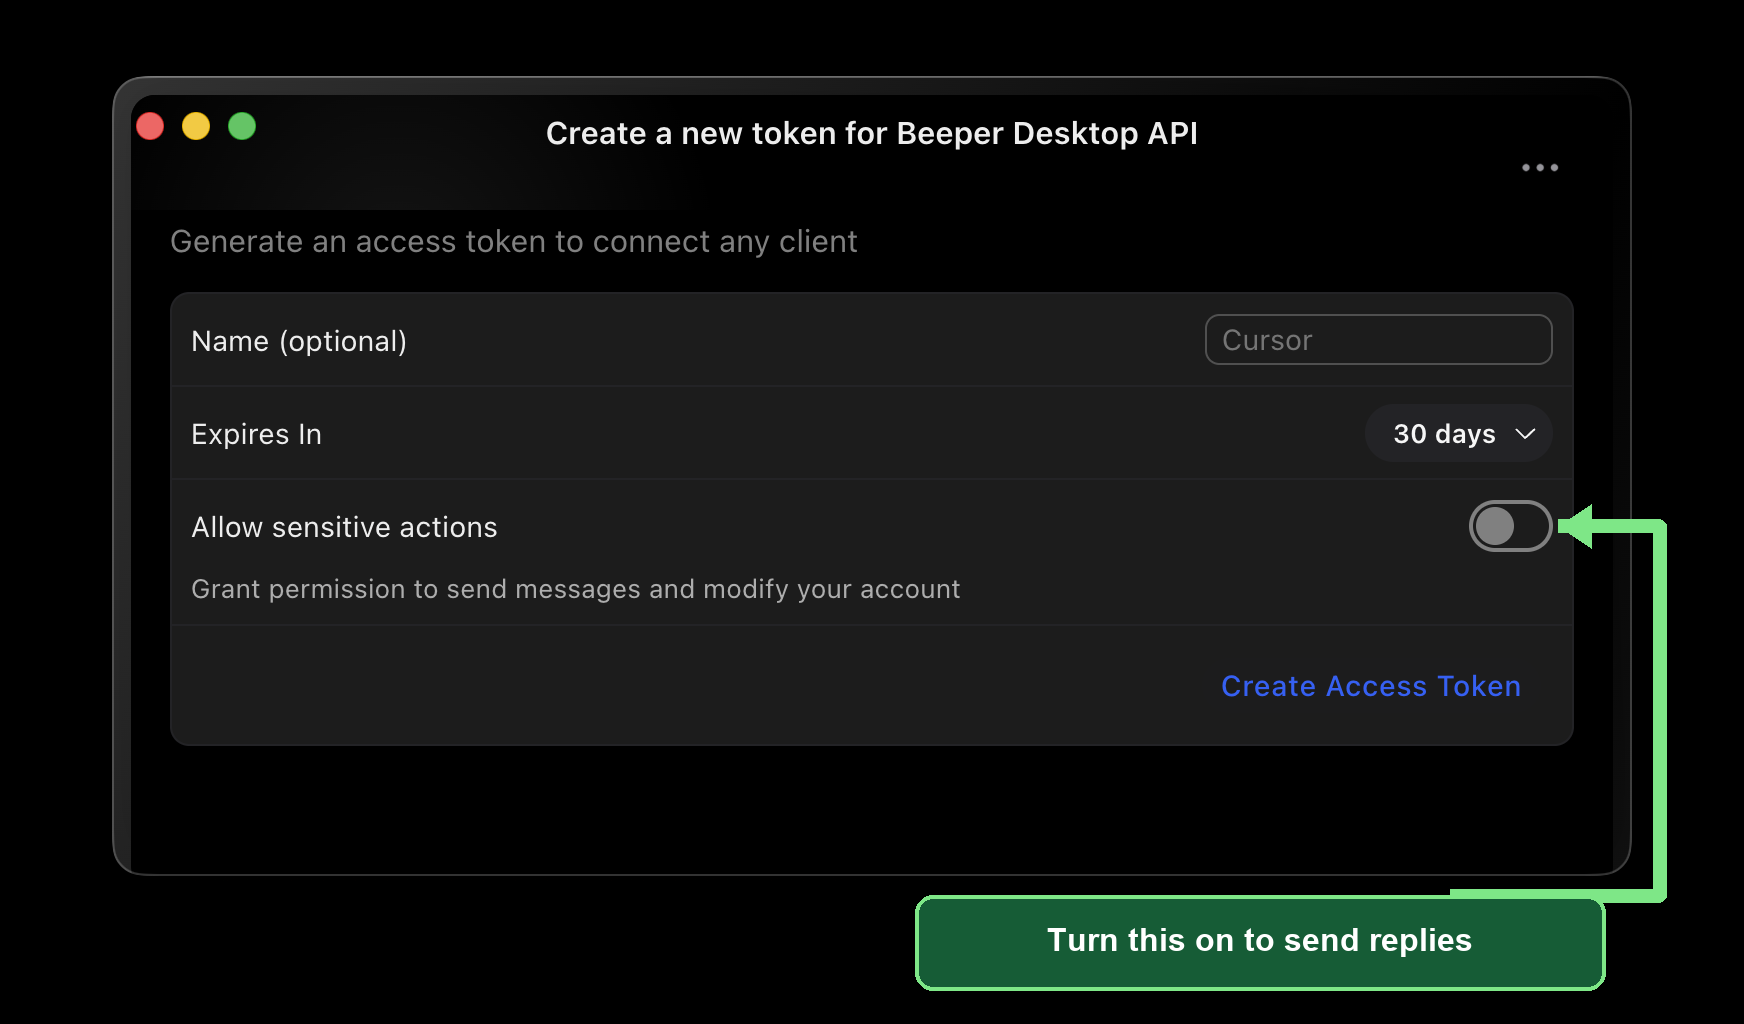
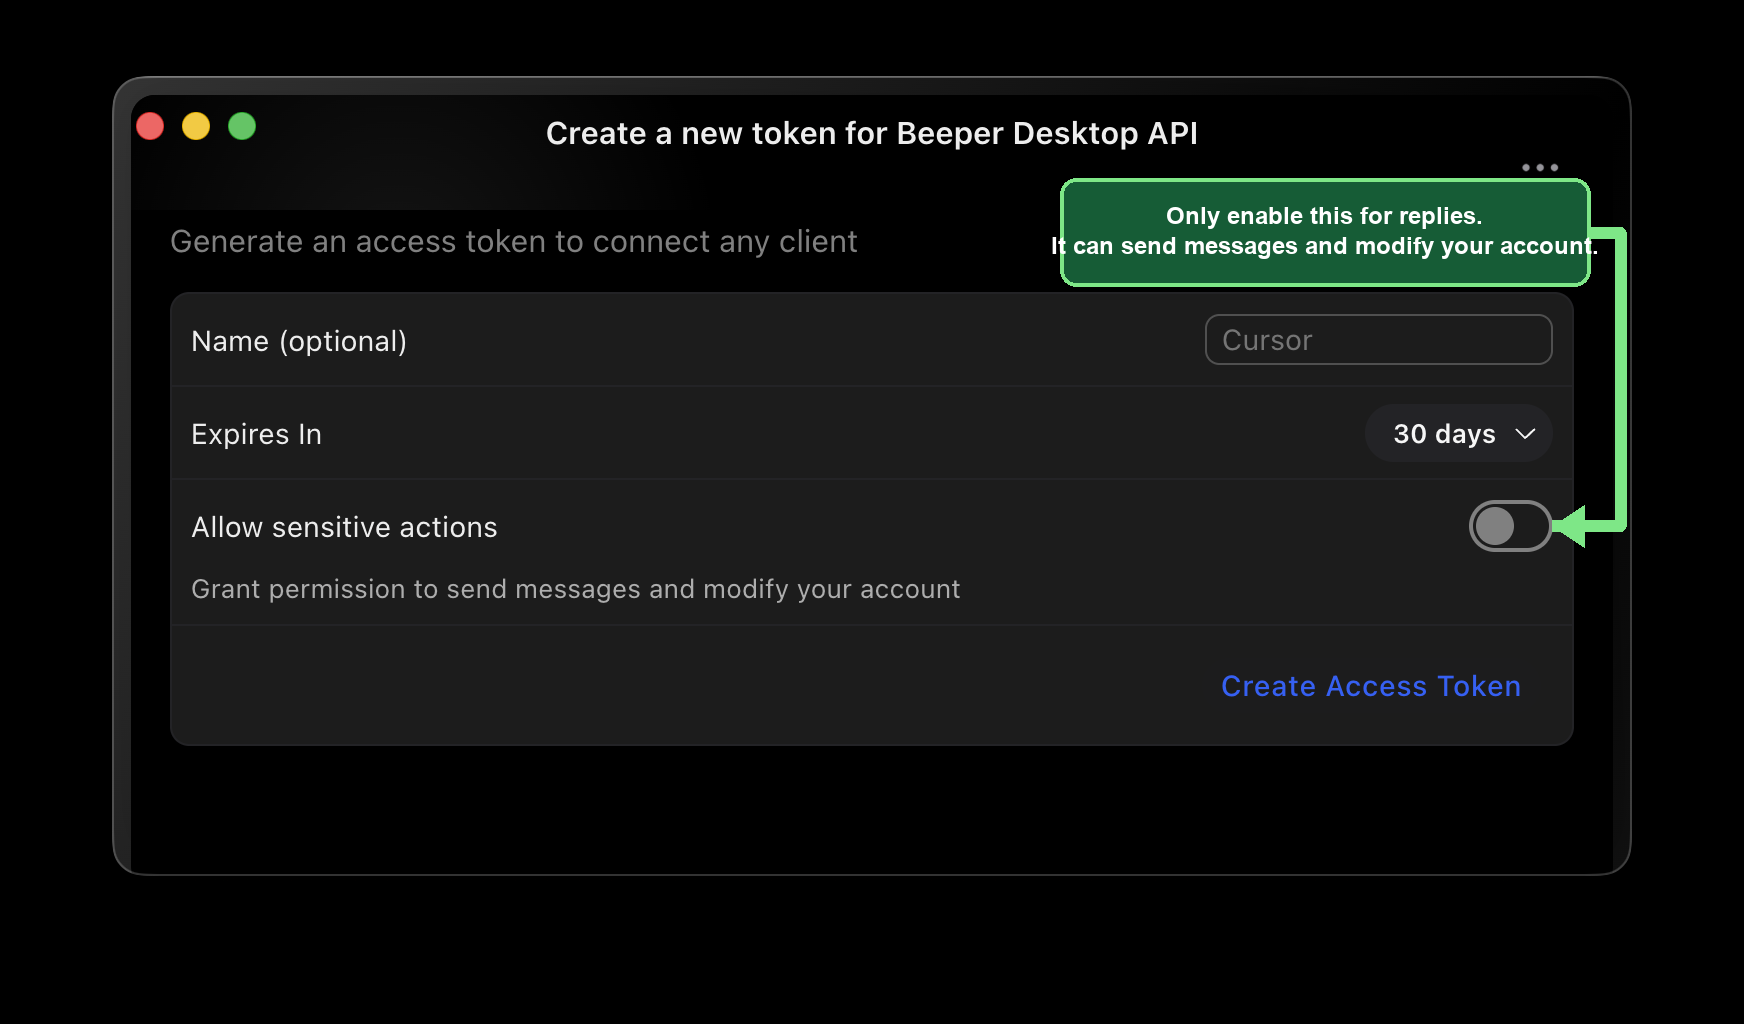
[verified] docs: disclose Beeper token reply permission scope

Changed region(s): [[0.5264, 0.1562, 0.9599, 0.9688]]

diff --git a/src/components/DevModeUI.tsx b/src/components/DevModeUI.tsx
@@ -28,8 +28,8 @@ const TOKEN_GUIDE_IMAGES = [
   },
   {
     src: "/beeper-desktop-setup/03-create-access-token.png",
-    alt: "Beeper Desktop dialog with an annotation to enable Allow sensitive actions before creating a token",
-    caption: "Before creating the token, turn on Allow sensitive actions to send replies.",
+    alt: "Beeper Desktop dialog with an annotation that Allow sensitive actions can send messages and modify your account; enable it only for replies",
+    caption: "Allow sensitive actions lets the token send messages and modify your account. Enable it only for replies.",
   },
 ] as const;
 
@@ -926,8 +926,9 @@ function SettingsForm({
                 <strong>Create a new token for Beeper Desktop API</strong>.
               </li>
               <li>
-                Enable <strong>Allow sensitive actions</strong> so Even Messages
-                can send replies, then create the token and paste it below.
+                <strong>Allow sensitive actions</strong> lets the token send messages
+                and modify your account. Enable it only if you want Even Messages to
+                send replies, then create the token and paste it below.
               </li>
             </ol>
           </div>

diff --git a/src/components/DevModeUI.module.css b/src/components/DevModeUI.module.css
@@ -750,9 +750,6 @@ body {
 
 /* Footer */
 .footer {
-  position: sticky;
-  bottom: 0;
-  z-index: 20;
   flex-shrink: 0;
   min-width: 0;
   padding: 1rem 2rem;

diff --git a/README.md b/README.md
@@ -57,7 +57,7 @@ npm run dev
 1. In Beeper Desktop, open **Settings → Integrations**.
 2. Under **Beeper Desktop API**, turn on **Allow connections**.
 3. Under **Approved connections**, select the plus button to **Create a new token for Beeper Desktop API**.
-4. Enable **Allow sensitive actions** so Even Messages can send replies, then create and copy the token.
+4. **Allow sensitive actions** lets the token send messages and modify your account. Enable it only if you want Even Messages to send replies, then create and copy the token.
 
 <p align="center">
   <img src="./public/beeper-desktop-setup/01-integrations.png" alt="Beeper Desktop Integrations settings with Allow connections enabled" width="700">
@@ -68,7 +68,7 @@ npm run dev
 </p>
 
 <p align="center">
-  <img src="./public/beeper-desktop-setup/03-create-access-token.png" alt="Beeper Desktop dialog with a callout to enable Allow sensitive actions before creating a token" width="700">
+  <img src="./public/beeper-desktop-setup/03-create-access-token.png" alt="Beeper Desktop dialog with a callout that Allow sensitive actions can send messages and modify your account; enable it only for replies" width="700">
 </p>
 
 > **Support note:** Please do not ask the Beeper Developer Community for help using Even Messages. It is for people building integrations, not end-user support. For help with Even Messages, [open a project issue](https://github.com/thibautrey/even-messages/issues).

diff --git a/docs/TAILSCALE_SETUP.md b/docs/TAILSCALE_SETUP.md
@@ -169,7 +169,7 @@ On your home computer:
 3. Open **Settings → Integrations**
 4. Under **Beeper Desktop API**, turn on **Allow connections**
 5. Under **Approved connections**, select the plus button to **Create a new token for Beeper Desktop API**
-6. Enable **Allow sensitive actions** if you want Even Messages to send replies, then copy the token
+6. **Allow sensitive actions** lets the token send messages and modify your account. Enable it only if you want Even Messages to send replies, then copy the token
 
 If you already use Even Messages at home, you may already have this token.
 
